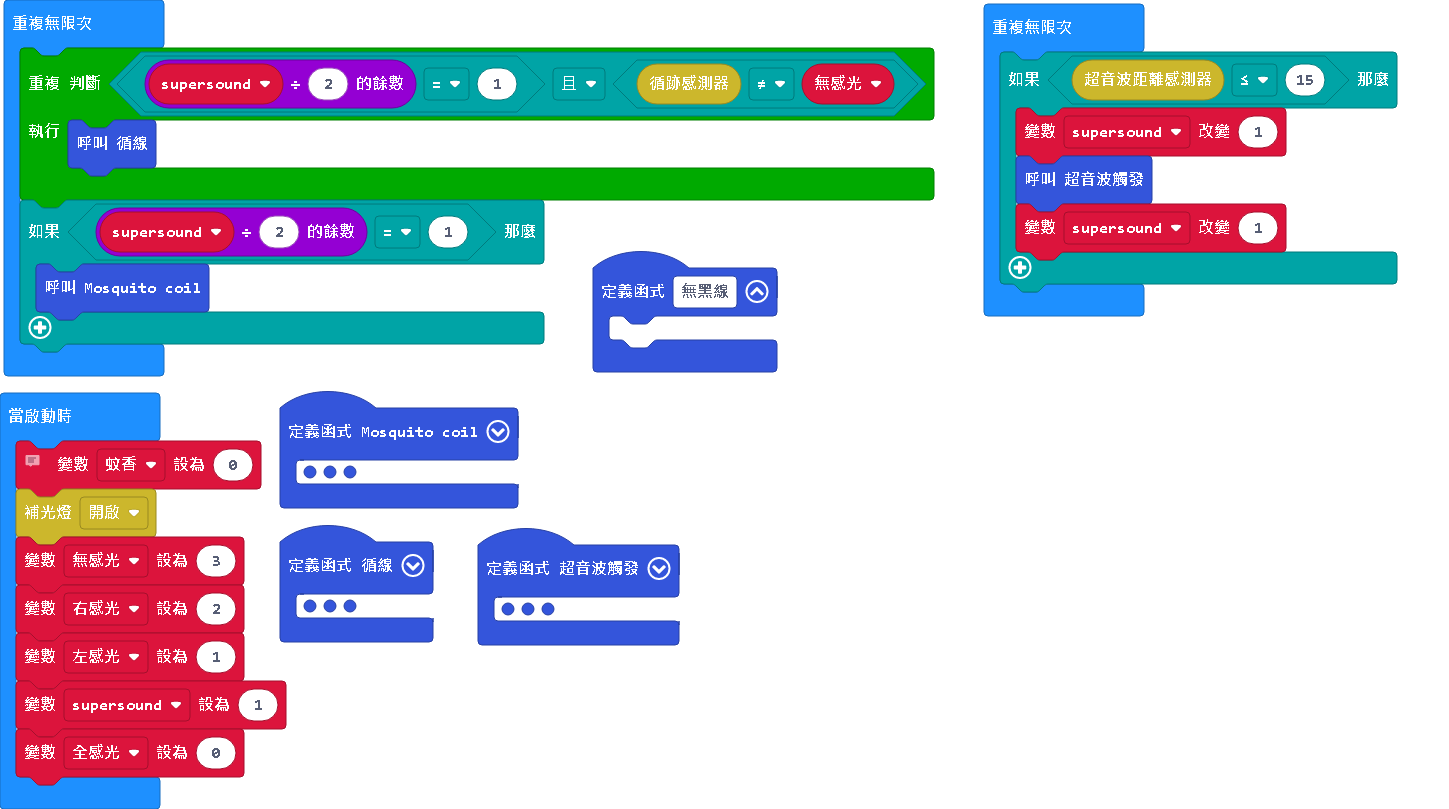
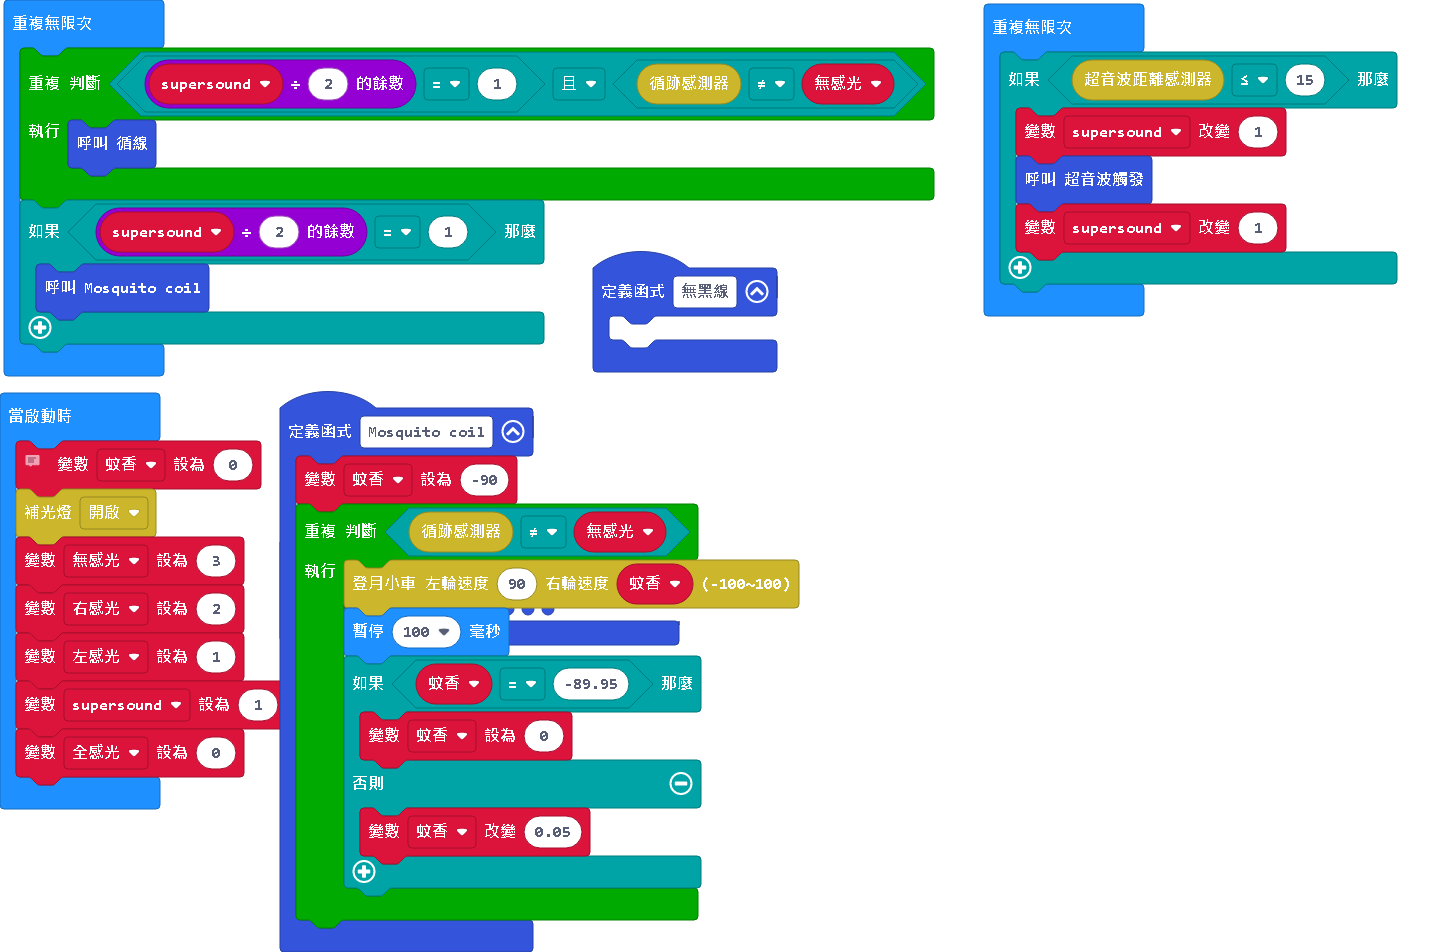
更新 main.blocks, main.ts, main.py

diff --git a/main.ts b/main.ts
@@ -1,6 +1,6 @@
 function Mosquito_coil () {
     蚊香 = -90
-    while (mooncar.UltrasonicSensor() != 5) {
+    while (mooncar.LineFollowerSensor() != 無感光) {
         mooncar.MoonCarLR(90, 蚊香)
         basic.pause(100)
         if (蚊香 == -89.95) {
@@ -55,6 +55,7 @@ let 全感光 = 0
 let supersound = 0
 let 左感光 = 0
 let 右感光 = 0
+let 無感光 = 0
 let 蚊香 = 0
 // for index in range(20):
 // 
@@ -141,7 +142,7 @@ let 蚊香 = 0
 // break
 蚊香 = 0
 mooncar.Filllight(mooncar.Switch.Open)
-let 無感光 = 3
+無感光 = 3
 右感光 = 2
 左感光 = 1
 supersound = 1

diff --git a/main.py b/main.py
@@ -1,3 +1,13 @@
+def Mosquito_coil():
+    global 蚊香
+    蚊香 = -90
+    while mooncar.ultrasonic_sensor() != 5:
+        mooncar.moon_car_lr(90, 蚊香)
+        basic.pause(100)
+        if 蚊香 == -89.95:
+            蚊香 = 0
+        else:
+            蚊香 += 0.05
 def 循線():
     basic.show_leds("""
         . # . # .
@@ -33,15 +43,7 @@ def 超音波觸發():
         basic.pause(500)
         return
 def 無黑線():
-    global 蚊香
-    蚊香 = -90
-    while mooncar.ultrasonic_sensor() != 5:
-        mooncar.moon_car_lr(90, 蚊香)
-        basic.pause(100)
-        if 蚊香 == -89.95:
-            蚊香 = 0
-        else:
-            蚊香 += 0.05
+    pass
 全感光 = 0
 supersound = 0
 左感光 = 0
@@ -142,7 +144,7 @@ def on_forever():
     while supersound % 2 == 1 and mooncar.line_follower_sensor() != 無感光:
         循線()
     if supersound % 2 == 1:
-        無黑線()
+        Mosquito_coil()
 basic.forever(on_forever)
 
 def on_forever2():
